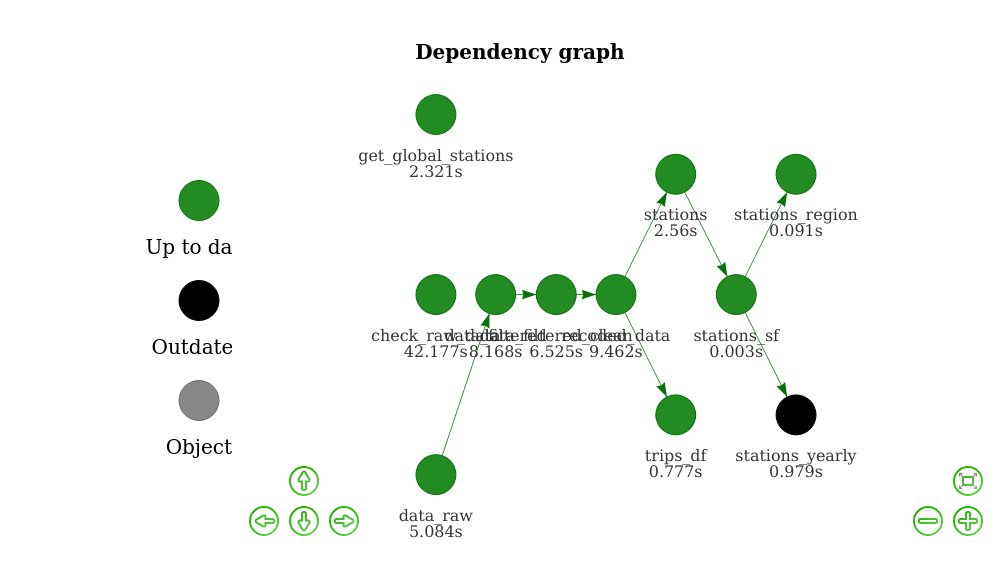
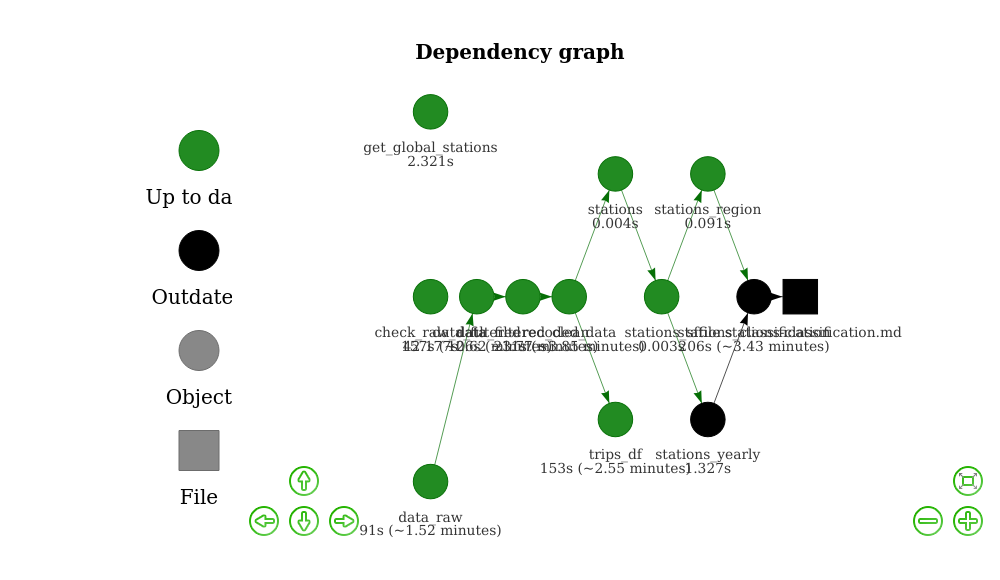
Update after rebuilding clean stations classification code

diff --git a/README.md b/README.md
@@ -19,20 +19,21 @@ piggyback::pb_download("data_raw_5pc.fst")
 library(lchs)
 source("R/plan.R")
 plan
-#> # A tibble: 11 x 3
-#>    target          command                                                format
-#>    <chr>           <expr>                                                 <chr> 
-#>  1 data_raw        fst::read.fst("data_raw_5pc.fst")                    … fst   
-#>  2 data_filtered   lchs_filter_select(data_raw)                         … fst   
-#>  3 data_filtered_… lchs_clean(data_filtered)                            … <NA>  
-#>  4 recoded_data    lchs_recode(trips_df = data_filtered_clean, stations … <NA>  
-#>  5 trips_df        recoded_data[[1]]                                    … <NA>  
-#>  6 stations        recoded_data[[2]]                                    … <NA>  
-#>  7 stations_sf     lchs_get_stations_sf(stations = stations)            … <NA>  
-#>  8 check_raw_data  source("code/cycle-hires-excel.R")                   … <NA>  
-#>  9 get_global_sta… source("code/get-global-stations.R")                 … <NA>  
-#> 10 stations_region lchs_get_stations_region(stations_sf)                … <NA>  
-#> 11 stations_yearly lchs_stations_yearly(stations_sf)                    … <NA>
+#> # A tibble: 12 x 3
+#>    target            command                                              format
+#>    <chr>             <expr>                                               <chr> 
+#>  1 data_raw          fst::read.fst("data_raw.fst")                      … fst   
+#>  2 data_filtered     lchs_filter_select(data_raw)                       … fst   
+#>  3 data_filtered_cl… lchs_clean(data_filtered)                          … <NA>  
+#>  4 recoded_data      lchs_recode(trips_df = data_filtered_clean, station… <NA>  
+#>  5 trips_df          recoded_data[[1]]                                  … <NA>  
+#>  6 stations          recoded_data[[2]]                                  … <NA>  
+#>  7 stations_sf       lchs_get_stations_sf(stations = stations)          … <NA>  
+#>  8 check_raw_data    source("code/cycle-hires-excel.R")                 … <NA>  
+#>  9 get_global_stati… source("code/get-global-stations.R")               … <NA>  
+#> 10 stations_region   lchs_get_stations_region(stations_sf)              … <NA>  
+#> 11 stations_yearly   lchs_stations_yearly(stations_sf)                  … <NA>  
+#> 12 stations_classif… rmarkdown::render(knitr_in("stations-classification… <NA>
 ```
 
 To reproduce all the results in the paper, you can make the plan with:
@@ -50,33 +51,33 @@ drake::vis_drake_graph(plan, targets_only = TRUE, make_imports = FALSE)
 data_filtered_clean = drake::readd(data_filtered_clean)
 head(data_filtered_clean)
 #>            start_time           stop_time start_station_id end_station_id
-#> 1 2016-04-14 09:36:00 2016-04-14 09:51:00               30            202
-#> 2 2013-06-15 11:56:00 2013-06-15 12:20:00              230            108
-#> 3 2019-09-20 06:23:00 2019-09-20 06:31:00              282            104
-#> 4 2012-07-31 05:58:22 2012-07-31 06:20:14              195            268
-#> 5 2018-06-24 21:18:00 2018-06-24 21:28:00              723            782
-#> 6 2016-10-15 01:40:00 2016-10-15 02:23:00              780            738
+#> 1 2016-01-10 00:00:00 2016-01-10 00:04:00               18            383
+#> 2 2016-01-10 00:00:00 2016-01-10 00:05:00              479            719
+#> 3 2016-01-10 00:00:00 2016-01-10 00:20:00              425            272
+#> 4 2016-01-10 00:01:00 2016-01-10 00:14:00              487            471
+#> 5 2016-01-10 00:01:00 2016-01-10 00:11:00              501            399
+#> 6 2016-01-10 00:02:00 2016-01-10 00:09:00              769            671
 #>   year_month
-#> 1 2016-04-01
-#> 2 2013-06-01
-#> 3 2019-09-01
-#> 4 2012-07-01
-#> 5 2018-06-01
-#> 6 2016-10-01
+#> 1 2016-01-01
+#> 2 2016-01-01
+#> 3 2016-01-01
+#> 4 2016-01-01
+#> 5 2016-01-01
+#> 6 2016-01-01
 summary(data_filtered_clean)
 #>    start_time                    stop_time                   start_station_id  
-#>  Min.   :2012-01-04 00:06:00   Min.   :1970-01-01 00:00:00   Length:4209093    
-#>  1st Qu.:2013-08-09 15:25:00   1st Qu.:2013-08-08 17:25:00   Class :character  
-#>  Median :2015-10-22 19:43:00   Median :2015-10-22 19:59:00   Mode  :character  
-#>  Mean   :2015-11-06 07:46:57   Mean   :2015-08-26 08:53:49                     
-#>  3rd Qu.:2017-11-29 18:46:00   3rd Qu.:2017-11-29 18:59:00                     
-#>  Max.   :2019-12-31 23:46:00   Max.   :2019-12-31 23:55:00                     
+#>  Min.   :2012-01-04 00:00:00   Min.   :1970-01-01 00:00:00   Length:73720600   
+#>  1st Qu.:2014-04-02 09:35:00   1st Qu.:2014-04-02 09:51:45   Class :character  
+#>  Median :2016-03-20 22:28:00   Median :2016-03-20 22:55:00   Mode  :character  
+#>  Mean   :2016-02-14 00:05:17   Mean   :2015-12-18 06:33:07                     
+#>  3rd Qu.:2018-02-20 18:58:00   3rd Qu.:2018-02-20 19:12:00                     
+#>  Max.   :2019-12-31 23:56:00   Max.   :2019-12-31 23:59:00                     
 #>  end_station_id       year_month                 
-#>  Length:4209093     Min.   :2012-01-01 00:00:00  
-#>  Class :character   1st Qu.:2013-08-01 00:00:00  
-#>  Mode  :character   Median :2015-10-01 00:00:00  
-#>                     Mean   :2015-10-21 23:29:44  
-#>                     3rd Qu.:2017-11-01 00:00:00  
+#>  Length:73720600    Min.   :2012-01-01 00:00:00  
+#>  Class :character   1st Qu.:2014-04-01 00:00:00  
+#>  Mode  :character   Median :2016-03-01 00:00:00  
+#>                     Mean   :2016-01-29 17:01:43  
+#>                     3rd Qu.:2018-02-01 00:00:00  
 #>                     Max.   :2019-12-01 00:00:00
 ```
 
